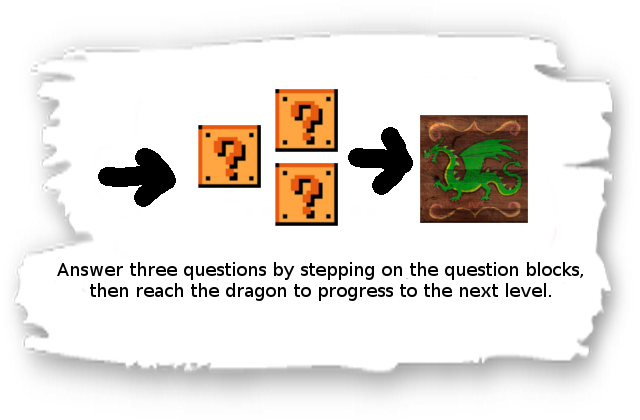
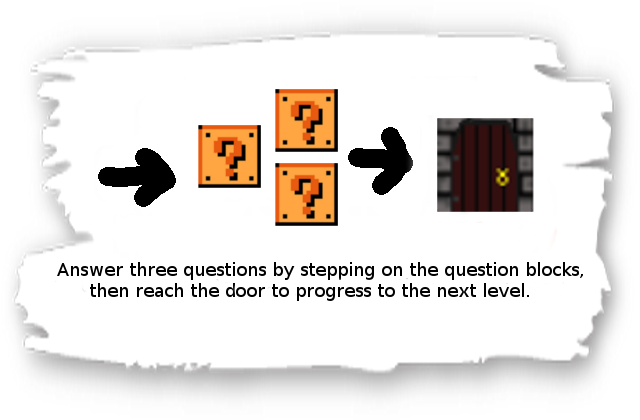
help almost done

Changed region(s): [[0.625, 0.2476, 0.8438, 0.5571], [0.3438, 0.681, 0.875, 0.7119]]

diff --git a/maze game/js/menu.js b/maze game/js/menu.js
@@ -20,6 +20,10 @@ var helpImage = new Image();
 helpImage.src = "img/help-Image.png";
 var creditsImage = new Image();
 creditsImage.src = "img/credits-Image.png";
+var nextButton = new Image();
+nextButton.src = "img/Button-Next-512.png";
+var BackNextButton = new Image();
+BackNextButton.src = "img/Button-Back-512.png";
 var volume3Image = new Image();
 volume3Image.src = "img/Speaker_Icon.png";
 var volume2Image = new Image();
@@ -36,6 +40,7 @@ var volumePrecentage=1;
 var onlyOnce=true;
 var buttonHeight;
 var buttonWidth;
+var timesNextClicked;
 function menu(){
 	optionsMenu=false;
 	subMenu=false;
@@ -54,12 +59,14 @@ function menu(){
     ctx = myGameArea.context;
 	ctx.drawImage(backImage, 0, 0, myGameArea.canvas.width, myGameArea.canvas.height);
     draw_menu();
-    window.addEventListener('mouseup', function(e) {
+    document.addEventListener('mouseup', function mouseUp(e) {
     	var X=e.clientX-myGameArea.canvas.getBoundingClientRect().left;
     	var Y=e.clientY-myGameArea.canvas.getBoundingClientRect().top;
     	if(subMenu==false){
 			if (check_start(X, Y)){
 				startGameVar = true;
+				document.removeEventListener('mouseup', mouseUp);
+				document.removeEventListener('mousemove', inBox);
 				myGameArea.canvas.style.cursor = "default";
 				forestSound.play();
 	        	startGame();
@@ -74,6 +81,7 @@ function menu(){
 				helpMenu=true;
 				subMenu = true;
 				velocity = 1;
+				timesNextClicked=0;
 				help();
 			}
 			else if (check_credits(X, Y)){
@@ -86,8 +94,30 @@ function menu(){
 				close();
 			}
 		}
-		if (check_back(X,e.clientY)&&subMenu){
+		if (check_back(X, Y)&&subMenu){
+			document.removeEventListener('mouseup', mouseUp);
 			menu();
+		}
+		if(check_next(X, Y)&&helpMenu){
+			timesNextClicked++;
+		}
+		if(check_backNext(X, Y)&&helpMenu){
+			timesNextClicked--;			
+		}
+		if(timesNextClicked==0){
+			helpImage.src="img/help-Image.png";
+		}
+		else if(timesNextClicked==1){
+			helpImage.src="img/help-Image3.png";
+		}
+		else if(timesNextClicked==2){
+			helpImage.src="img/help-Image2.png";
+		}
+		else if(timesNextClicked==3){
+			timesNextClicked=2;
+		}
+		else if(timesNextClicked==-1){
+			timesNextClicked=0;
 		}
 		if(optionsMenu&&sliderClicked){
 			sliderClicked = false;
@@ -107,14 +137,14 @@ function menu(){
 			
 		}
 	});
-	window.addEventListener('mousedown', function(e) {
+	document.addEventListener('mousedown', function mouseDown(e) {
 		var X=e.clientX-myGameArea.canvas.getBoundingClientRect().left;
 		var Y=e.clientY-myGameArea.canvas.getBoundingClientRect().top;
 		if(check_slider(X,Y)&&optionsMenu){
 			sliderClicked = true;
 		}
 	});
-    window.addEventListener('mousemove', function inBox(e) {
+    document.addEventListener('mousemove', function inBox(e) {
     	var X=e.clientX-myGameArea.canvas.getBoundingClientRect().left;
     	var Y=e.clientY-myGameArea.canvas.getBoundingClientRect().top;
 		if(startGameVar == false){
@@ -185,6 +215,32 @@ function menu(){
 					}
 					if(helpMenu){
 						ctx.drawImage(helpImage, myGameArea.canvas.width/2-helpImageWidth/2, myGameArea.canvas.height/2-helpImageLength/2,helpImageWidth,helpImageLength);
+						if(timesNextClicked==0){
+							ctx.drawImage(nextButton, myGameArea.canvas.width/1.25, myGameArea.canvas.height/1.3,50,50);
+						}
+						else if(timesNextClicked==2){
+							ctx.drawImage(BackNextButton, myGameArea.canvas.width/7, myGameArea.canvas.height/1.3,50,50);
+						}
+						else{
+							ctx.drawImage(nextButton, myGameArea.canvas.width/1.25, myGameArea.canvas.height/1.3,50,50);
+							ctx.drawImage(BackNextButton, myGameArea.canvas.width/7, myGameArea.canvas.height/1.3,50,50);
+						}
+						if(check_next(X, Y)){
+							for(i=0;i<5;i++){
+								ctx.drawImage(nextButton, myGameArea.canvas.width/1.25, myGameArea.canvas.height/1.3,50,50);
+							}
+						}
+						if(check_backNext(X, Y)){
+							for(i=0;i<5;i++){
+								ctx.drawImage(BackNextButton, myGameArea.canvas.width/7, myGameArea.canvas.height/1.3,50,50);
+							}
+						}
+						if(!check_backNext(X, Y)&&!check_back(X, Y)&&!check_next(X, Y)){
+							myGameArea.canvas.style.cursor = "default";
+						}
+						else{
+							myGameArea.canvas.style.cursor = "pointer";
+						}
 					}
 					if(creditsMenu){
 						ctx.drawImage(creditsImage, myGameArea.canvas.width/2-helpImageWidth/2, myGameArea.canvas.height/2-helpImageLength/2,helpImageWidth,helpImageLength);
@@ -195,7 +251,7 @@ function menu(){
 						ctx.fillStyle = "blue";
 						ctx.fillRect(slider,myGameArea.canvas.height/4-7.5,15,30);
 						if(sliderClicked&&slider>=myGameArea.canvas.width/4&&slider<=myGameArea.canvas.width/4+myGameArea.canvas.width/1.7-7.5){
-							slider = e.clientX-15;
+							slider = X-7.5;
 						}
 						if(slider<=myGameArea.canvas.width/4){
 							slider=myGameArea.canvas.width/4+1;
@@ -220,7 +276,6 @@ function menu(){
 		}
     });  
 }
-
 function draw_menu(){
 	ctx.drawImage(startGameImage, myGameArea.canvas.width/2-buttonWidth/2,myGameArea.canvas.height/2-myGameArea.canvas.height/3,buttonWidth,buttonHeight); //start not clicked
 	ctx.drawImage(optionsGameImage, myGameArea.canvas.width/2-buttonWidth/2,myGameArea.canvas.height/2-myGameArea.canvas.height/5,buttonWidth,buttonHeight); //options not clicked
@@ -269,8 +324,23 @@ function check_back(x,y){
 	}
 	return false;
 }
+
 function check_slider(x,y){
-	if ((x>= slider && x<= slider+15)&&(y>=myGameArea.canvas.height/4 && y<= myGameArea.canvas.height/4+30)){
+	if ((x>= slider-1 && x<= slider+15)&&(y>=myGameArea.canvas.height/4 && y<= myGameArea.canvas.height/4+30)){
+		return true;
+	}
+	return false;
+}
+
+function check_next(x,y){
+	if ((x>= myGameArea.canvas.width/1.25 && x<= myGameArea.canvas.width/1.25+50)&&(y>=myGameArea.canvas.height/1.3 && y<= myGameArea.canvas.height/1.3+50)){
+		return true;
+	}
+	return false;
+}
+
+function check_backNext(x,y){
+	if ((x>= myGameArea.canvas.width/7 && x<= myGameArea.canvas.width/7+50)&&(y>=myGameArea.canvas.height/1.3 && y<= myGameArea.canvas.height/1.3+50)){
 		return true;
 	}
 	return false;
@@ -279,6 +349,7 @@ function help(){
 	ctx.drawImage(backImage, 0, 0, myGameArea.canvas.width, myGameArea.canvas.height);
 	ctx.drawImage(backButtonImage, myGameArea.canvas.width/7.5, myGameArea.canvas.height/5.5,50,50);
 	ctx.drawImage(helpImage, myGameArea.canvas.width/2-helpImageWidth/2, myGameArea.canvas.height/2-helpImageLength/2,helpImageWidth,helpImageLength);
+	ctx.drawImage(nextButton, myGameArea.canvas.width/1.25, myGameArea.canvas.height/1.3,50,50);
 }
 function options(){
 	ctx.drawImage(backImage, 0, 0, myGameArea.canvas.width, myGameArea.canvas.height);

diff --git a/maze game/js/scripts_textures.js b/maze game/js/scripts_textures.js
@@ -17,7 +17,7 @@ wall_image.src = "img/sf2-map.png";
 var ground_image = new Image();
 ground_image.src = "img/grndcobblestone.jpg";
 var closedDoorImage = new Image();
-closedDoorImage.src = "img/closedDoor2.png";
+closedDoorImage.src = "img/closedDoor2.PNG";
 var openedDoorImage = new Image();
 openedDoorImage.src = "img/openedDoor2.PNG";
 var soil_image = new Image();
